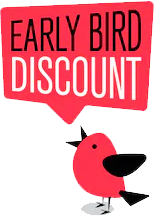
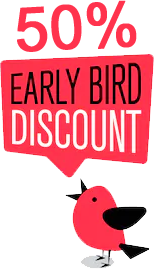
changes

diff --git a/index.html b/index.html
@@ -53,13 +53,13 @@
 
     <div class="swiper-container hero-slider" id="home">
         <div class="swiper-wrapper">
-            <div class="swiper-slide" data-date="2019/08/01" style="background: url('images/slt/bg2.jpg') no-repeat; background-size: cover; min-height: 100vh; height: 100vh">
+            <div class="swiper-slide" data-date="2019/08/01" style="background: url('images/slt/bg3.jpg') no-repeat; background-size: cover; min-height: 100vh; height: 100vh">
                 <div class="hero-content">
                     <div class="container">
                         <div class="row">
                             <div class="col-12 flex flex-row justify-content-between">
 																<!-- <div class="wss-logo"></div> -->
-                                <div class="details flex flex-column justify-content-end">
+                                <div class="details flex flex-column justify-content-end" style="margin-top:30vh;">
                                     <div>
 																			<h3 id="date">1st August 2019</h3>
                                     </div>
@@ -95,11 +95,11 @@
 																<!-- <div class="marquee">
 																	Grab earlybird discounts... Register Now
 																</div> -->
-                                <div class="entry-footer">
+                                <!-- <div class="entry-footer">
 																		<a target="_blank" href="https://in.explara.com/e/womenstartupsummit"><img src="./images/slt/bird.png"></a>
-                                </div><!-- .entry-footer" -->
+                                </div> -->
 														</div><!-- .col -->
-														<div class="col-12" style="margin-top:37vh;">
+														<div class="col-12" >
 																<a target="_blank" class="btn gradient-bg" href="https://in.explara.com/e/womenstartupsummit">Register Now</a>															
 														</div>
                         </div><!-- .container -->
@@ -207,14 +207,18 @@
 								
             </div>
         </div>
-    </div>
+		</div>
+		<div class="bird">
+				<a target="_blank" href="https://in.explara.com/e/womenstartupsummit"><img src="./images/slt/bird.png"></a>
+		</div>
+		
 </div>
 
 <div class="homepage-next-events" id="agenda">
     <div class="container">
         <div class="row justify-content-start">
             <div class="next-events-section-header">
-                <h2 class="entry-title">Programme Schedule - Track 1</h2>
+                <h2 class="entry-title">Programme Schedule</h2>
                 <!-- <p>Vestibulum eget lacus at mauris sagittis varius. Etiam ut venenatis dui. Nullam tellus risus, pellentesque at facilisis et, scelerisque sit amet metus. Duis vel semper turpis, ac tempus libero. Maecenas id ultrices risus. Aenean nec ornare ipsum, lacinia.</p> -->
             </div>
 				</div>

diff --git a/style.css b/style.css
@@ -336,11 +336,12 @@ a:hover, a:active {
 
 }
 .hero-content h5, .hero-content h3{
-    color: #9d0744;
+    color: #9e0742;
     font-family: 'Spinnaker', sans-serif;
 }
 .hero-content h3{
     font-weight: bold;
+    text-shadow: 1px 1px 5px #ffffff;
 }
 
 .hero-content .container,
@@ -2345,6 +2346,19 @@ ul.tabs-nav .tab-nav.active {
         transform-origin: bottom center;
         width:50%;
         margin-top: -70px;
+   }
+
+   .bird{
+        right: 100px;
+        position: absolute;
+        margin-top: 300px;
+   }
+
+   .bird img{
+        animation: bird 5s linear infinite;
+        transform-origin: bottom center;
+        width: 100px;
+        
    }
 
    @keyframes bird {

diff --git a/js/vue_code.js b/js/vue_code.js
@@ -206,7 +206,7 @@ var app = new Vue({
       },
       {
         "time": "04:46 pm - 05:15 pm",
-        "item": "Honoring the Change Makers"
+        "item": "Honouring the Change Makers"
       },
       {
         "time": "",
